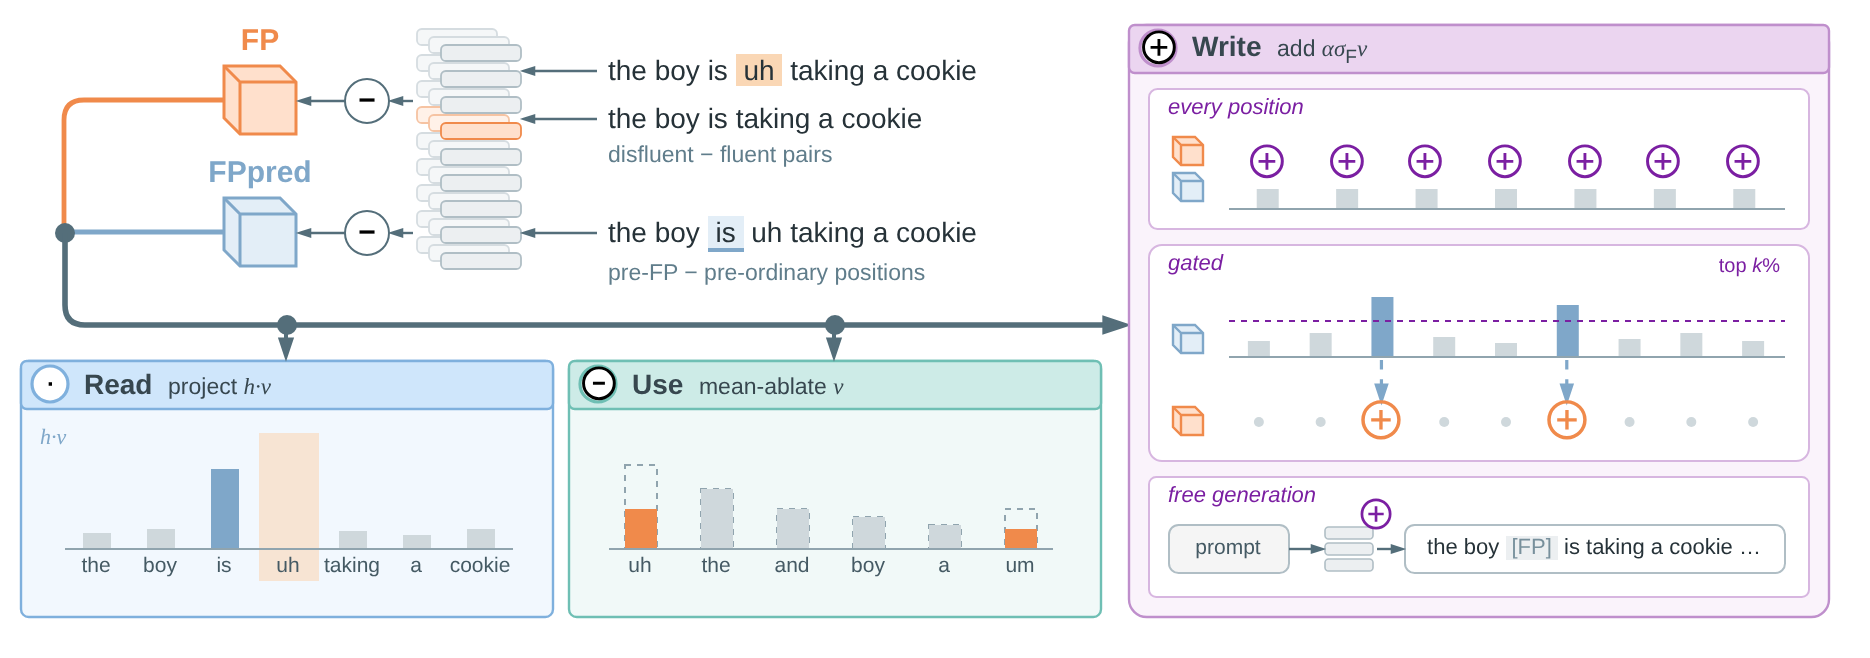
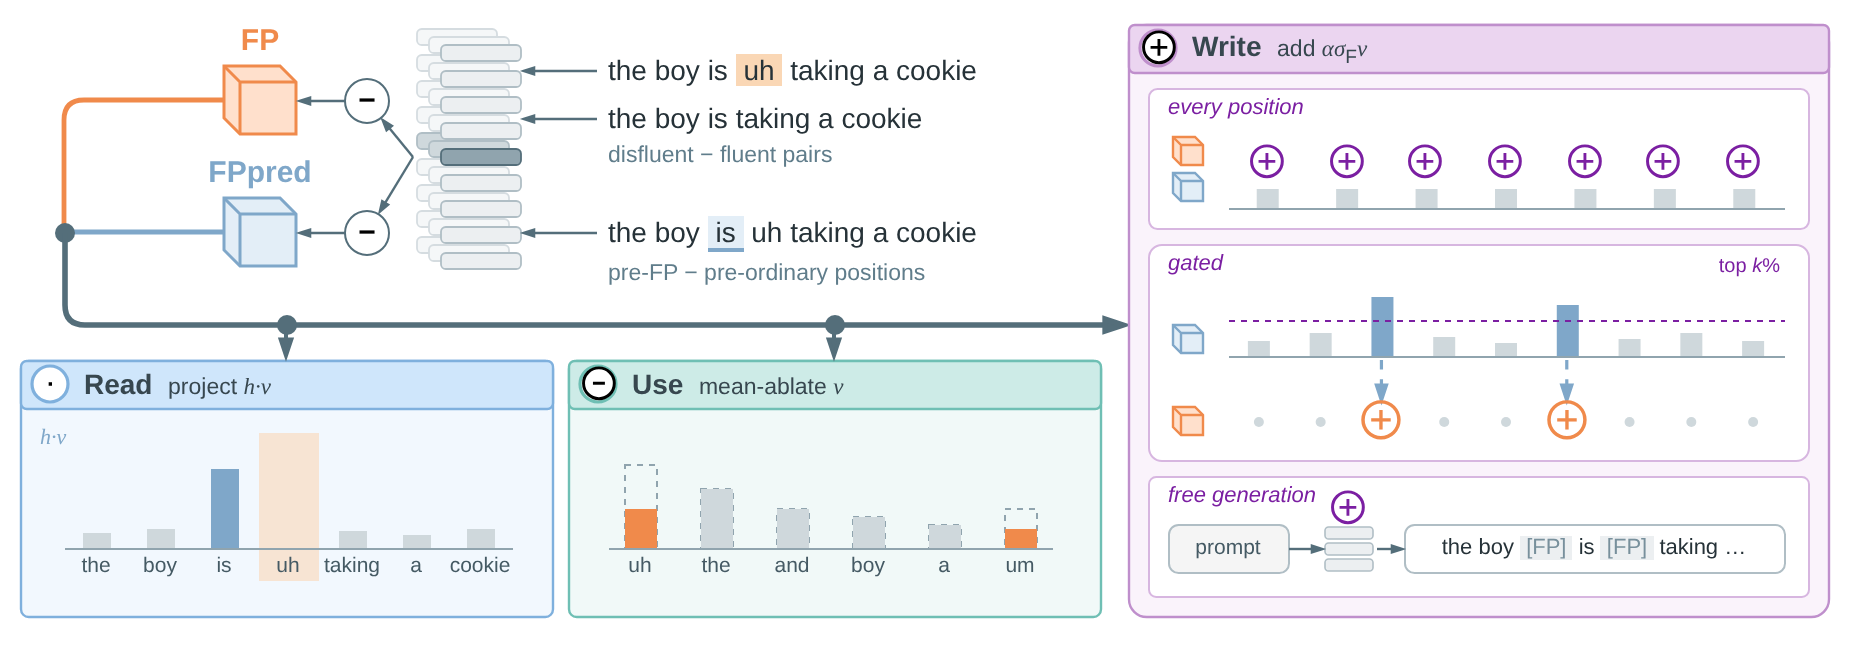
Overview figure: neutral shared block-21 highlight, centred Gen injection, two FP placeholders
Claude-Session: https://claude.ai/code/session_01Nr8f45fQSeuNoeBXRTJGZT

Changed region(s): [[0.1861, 0.152, 0.2791, 0.2736], [0.7444, 0.8207, 0.9305, 0.8511], [0.7134, 0.7295, 0.7444, 0.8207]]

diff --git a/figures/gen_overview.py b/figures/gen_overview.py
@@ -108,9 +108,9 @@ sx, sy, sw = 218, 18, 40
 for k, (ox_, oy_) in enumerate(((-12, -8), (-6, -4), (0, 0))):
     front = k == 2
     for i in range(9):
-        hl = i == 3
-        fill = ('#FFE0CC' if hl else '#ECEFF1') if front else ('#FFF1E8' if hl else '#F5F7F8')
-        stroke = ('#F08A4B' if hl else '#B0BEC5') if front else ('#F6C3A2' if hl else '#D5DCE0')
+        hl = i == 4
+        fill = ('#90A4AE' if hl else '#ECEFF1') if front else ('#CFD8DC' if hl else '#F5F7F8')
+        stroke = ('#546E7A' if hl else '#B0BEC5') if front else ('#B0BEC5' if hl else '#D5DCE0')
         v("", sx + ox_, sy + oy_ + i * 13, sw, 8,
           f"rounded=1;arcSize=30;html=1;strokeWidth=0.9;fillColor={fill};strokeColor={stroke};")
 for y in (FPY - 15, FPY + 9, PRY):
@@ -118,8 +118,9 @@ for y in (FPY - 15, FPY + 9, PRY):
 
 m1 = v("−", 170, FPY - 11, 22, 22, OPC)
 m2 = v("−", 170, PRY - 11, 22, 22, OPC)
-e(None, m1, FLOW, sp=(sx - 14, FPY))
-e(None, m2, FLOW, sp=(sx - 14, PRY))
+LAYER_Y = sy + 4 * 13 + 4
+e(None, m1, FLOW, sp=(sx - 14, LAYER_Y))
+e(None, m2, FLOW, sp=(sx - 14, LAYER_Y))
 c1 = v("", 110, FPY - 17, 36, 34, f"shape=cube;size=8;html=1;fillColor={WARM_F};strokeColor={WARM_S};strokeWidth=1.5;")
 c2 = v("", 110, PRY - 17, 36, 34, f"shape=cube;size=8;html=1;fillColor={COOL_F};strokeColor={COOL_S};strokeWidth=1.5;")
 e(m1, c1, FLOW)
@@ -250,9 +251,9 @@ pc = v("prompt", IX + 10, ry, 60, 24,
 gl = IX + 88
 for i in range(3):
     v("", gl, ry + 1 + i * 8, 24, 6, "rounded=1;arcSize=30;html=1;strokeWidth=0.8;fillColor=#ECEFF1;strokeColor=#B0BEC5;")
-text("⊕", gl + 18, ry - 10, 16, 12, 11, PURPLE, "center", "fontStyle=1;")
+text("⊕", gl + 4, ry - 15, 16, 14, 12, PURPLE, "center", "fontStyle=1;")
 e(pc, None, FLOW, tp=(gl, ry + 12))
-oc = v("the boy <span style='background-color:#ECEFF1;color:#78909C'>&nbsp;[FP]&nbsp;</span> is taking a cookie …",
+oc = v("the boy <span style='background-color:#ECEFF1;color:#78909C'>&nbsp;[FP]&nbsp;</span> is <span style='background-color:#ECEFF1;color:#78909C'>&nbsp;[FP]&nbsp;</span> taking …",
        gl + 40, ry, XR - (gl + 40), 24,
        "rounded=1;arcSize=20;html=1;fillColor=#FFFFFF;strokeColor=#B0BEC5;fontSize=11;fontColor=#263238;whiteSpace=wrap;" + FONT)
 e(None, oc, FLOW, sp=(gl + 26, ry + 12))

diff --git a/figures/overview_prompt.md b/figures/overview_prompt.md
@@ -196,3 +196,8 @@ Write 栏挂钩前放门控菱形 `FPpred high?`，接收来自 ② 的 `externa
 ## 22. v18
 
 - Write 内部分成三个白底子面板（every position / gated / free generation），统一内边距、标题位置与列对齐；top k% 标签移到 gated 子面板右上角。
+
+## 23. v19
+
+- 网络中第 21 层高亮改为中性深灰（FP 与 FPpred 共用），两个 − 号都从这一层引出箭头。
+- 自由生成：⊕ 放在模型示意图正上方；输出改为两个 [FP] 占位（"the boy [FP] is [FP] taking …"）。
